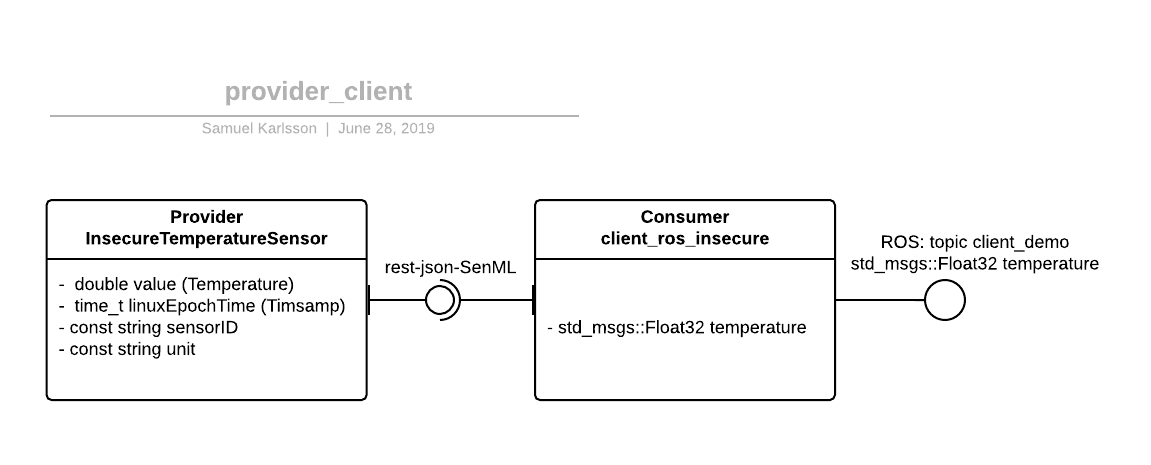
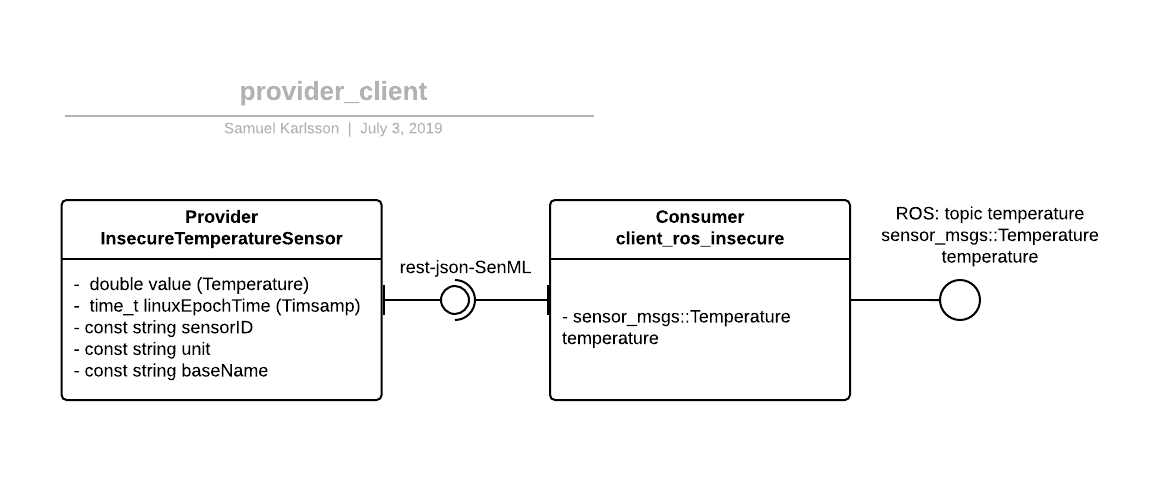
smole fixes

diff --git a/provider_client/src/messages.cpp b/provider_client/src/messages.cpp
@@ -1,6 +1,6 @@
 #include "messages.hpp"
 
-std_msgs::Float32 Converter::temperature;
+sensor_msgs::Temperature Converter::temperature;
 
 Converter::Converter(){
 }
@@ -30,7 +30,11 @@ void Converter::parce(char *ptr){
 	// get interesting data from json array object
 	// the array has length 1 but contains a json object
 	struct json_object *v;
+	struct json_object *t;
 	json_object_object_get_ex(
 		json_object_array_get_idx(e,0), "v", &v);
-	temperature.data  = json_object_get_double(v);	
+	json_object_object_get_ex(
+		json_object_array_get_idx(e,0), "t", &t);
+	temperature.temperature  = json_object_get_double(v);	
+	temperature.header.seq = json_object_get_int(t);
 }

diff --git a/provider_client/src/client.cpp b/provider_client/src/client.cpp
@@ -1,5 +1,5 @@
 #include "ros/ros.h"
-#include "std_msgs/Float32.h"
+#include "sensor_msgs/Temperature.h"
 #include "const_global.hpp"
 #include "messages.hpp"
 
@@ -71,7 +71,7 @@ int main(int argc, char **argv)
 
 	// declare a publisher used for debugging and observation
 	// set megs type to std_msgs::Float32, publish on topic "client_demo" and use buffer of size 10
-	ros::Publisher rescived_pub = n.advertise<std_msgs::Float32>("client_demo", 10);
+	ros::Publisher rescived_pub = n.advertise<sensor_msgs::Temperature>("temperature_example", 10);
 
 	//prams
 	ros::NodeHandle nh("~");

diff --git a/provider_client/src/messages.hpp b/provider_client/src/messages.hpp
@@ -1,5 +1,5 @@
 #pragma once
-#include "std_msgs/Float32.h"
+#include "sensor_msgs/Temperature.h"
 #include <ros/ros.h>
 #include "Interface/include/curl/curl.h"
 #include "microhttpd.h"
@@ -12,7 +12,7 @@ public:
 	~Converter();
 
 	// the message reserved in ROS msgs format
-	static std_msgs::Float32 temperature;
+	static sensor_msgs::Temperature temperature;
 
 	// parse returning msgs ("pte") from provider to ROS msgs
 	void parce(char* ptr);

diff --git a/provider_client/README.md b/provider_client/README.md
@@ -10,10 +10,10 @@ Currently is it only the insecure interfaces that are working.
 Install [Arrowhead framworke](https://github.com/arrowhead-f/core-java).  
 And install [ROS](http://wiki.ros.org/ROS/Installation) in development is Meloic Morenia used.
 
-## build
+## Build
 You have to the Arrowhead provider and ROS client separately.
 
-### build Arrowhead provider
+### Build Arrowhead provider
 Navigate to the ProviderExampel folder and run
 ```
 make
@@ -81,7 +81,7 @@ cat ~/.ros/log/latest/client-2-stdout.log
 
 To see the published ROS topic
 ```
-rostopic echo /client_demo
+rostopic echo /temperature_example
 ```
 
 
@@ -91,4 +91,3 @@ implemante json formating for internal messgesin in setup
 comment  
 create demo guide  
 fix HTTP  
-code cleanup  
